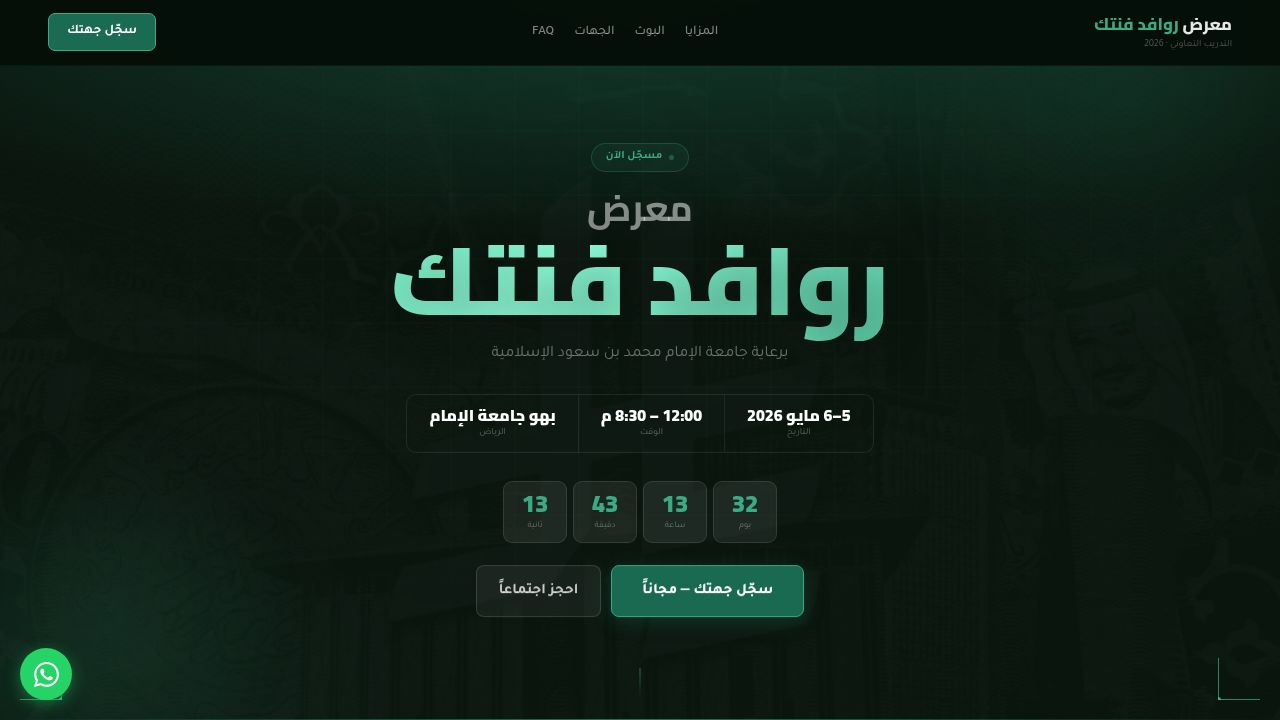
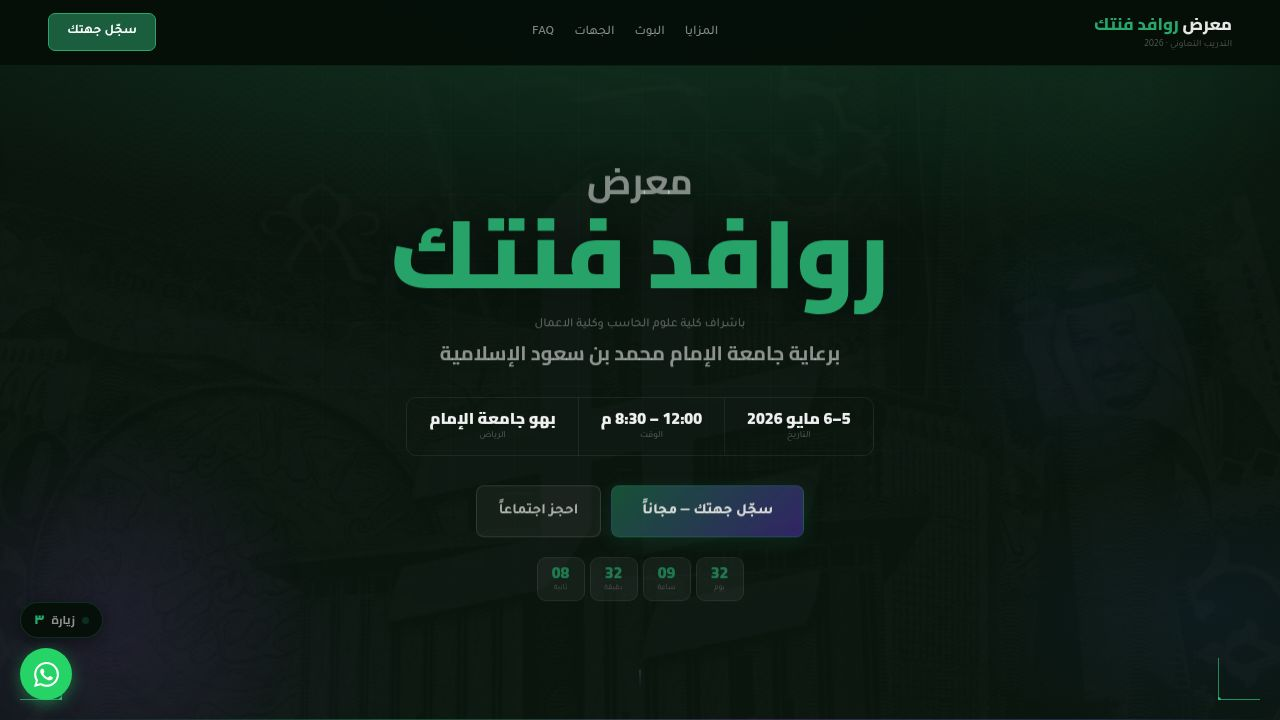
Add a live visitor counter to the website interface
Integrate a visitor counter component into the React application, fetching data from an external API and displaying it alongside styling in `index.css` and `Home.tsx`.

Replit-Commit-Author: Agent
Replit-Commit-Session-Id: 210bd927-e419-4ef4-850e-3e23f51f2af7
Replit-Commit-Checkpoint-Type: full_checkpoint
Replit-Commit-Event-Id: dca88d7c-f0f5-4173-beff-2f251788a623
Replit-Commit-Screenshot-Url: https://storage.googleapis.com/screenshot-production-us-central1/116363db-fb93-49b3-8160-7a6c1f8bd5d8/210bd927-e419-4ef4-850e-3e23f51f2af7/EDjEHIg
Replit-Helium-Checkpoint-Created: true

diff --git a/artifacts/internship-expo/src/index.css b/artifacts/internship-expo/src/index.css
@@ -326,6 +326,12 @@ nav { position:fixed; top:0; left:0; right:0; z-index:500; display:flex; align-i
 .wa-btn:hover { transform:scale(1.1); box-shadow:0 8px 24px rgba(37,211,102,.6); }
 .wa-btn svg { width:25px; height:25px; fill:#fff; }
 
+/* ═══ VISITOR COUNTER ═══ */
+.vc-badge { position:fixed; bottom:82px; left:20px; z-index:600; background:rgba(5,14,8,.92); border:1px solid rgba(40,166,107,.22); border-radius:20px; padding:7px 13px; display:flex; align-items:center; gap:7px; backdrop-filter:blur(10px); box-shadow:0 4px 18px rgba(0,0,0,.45); }
+.vc-dot { width:7px; height:7px; border-radius:50%; background:var(--glt); animation:pulse-dot 1.6s infinite; flex-shrink:0; }
+.vc-txt { font-family:'Cairo',sans-serif; font-size:.72rem; font-weight:700; color:rgba(255,255,255,.55); white-space:nowrap; }
+.vc-num { font-family:'Cairo',sans-serif; font-size:.82rem; font-weight:900; color:var(--glt); }
+
 /* ═══ FOOTER ═══ */
 footer { background:var(--green4); border-top:1px solid rgba(61,170,134,.07); padding:24px clamp(14px,4vw,48px); }
 .fi { max-width:1220px; margin:0 auto; display:flex; align-items:center; justify-content:space-between; flex-wrap:wrap; gap:12px; }

diff --git a/artifacts/internship-expo/src/pages/Home.tsx b/artifacts/internship-expo/src/pages/Home.tsx
@@ -69,6 +69,24 @@ const ORGS_ROW2 = [
   { n: "Fintech Saudi", c: "#007A53" },
 ];
 
+function VisitorCounter() {
+  const [count, setCount] = useState<number | null>(null);
+  useEffect(() => {
+    fetch("https://api.counterapi.dev/v1/rawafid-fintech-2026/visitors/up")
+      .then((r) => r.json())
+      .then((d) => setCount(Number(d.count)))
+      .catch(() => {});
+  }, []);
+  if (count === null) return null;
+  return (
+    <div className="vc-badge">
+      <div className="vc-dot" />
+      <span className="vc-txt">زيارة</span>
+      <span className="vc-num">{count.toLocaleString("ar-EG")}</span>
+    </div>
+  );
+}
+
 function useCountdown() {
   const target = new Date("2026-05-05T09:00:00Z").getTime();
   const calc = () => {
@@ -622,6 +640,9 @@ export default function Home() {
           </div>
         </div>
       </footer>
+
+      {/* VISITOR COUNTER */}
+      <VisitorCounter />
 
       {/* WA FIXED */}
       <a
